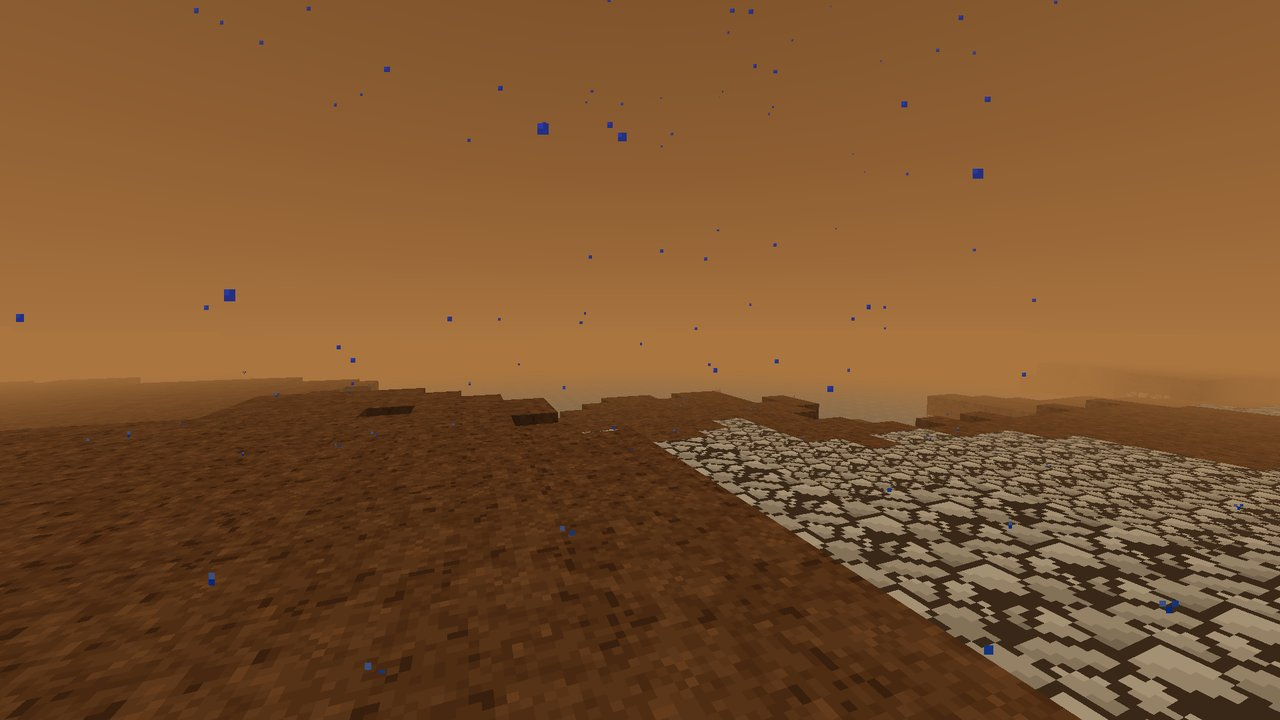
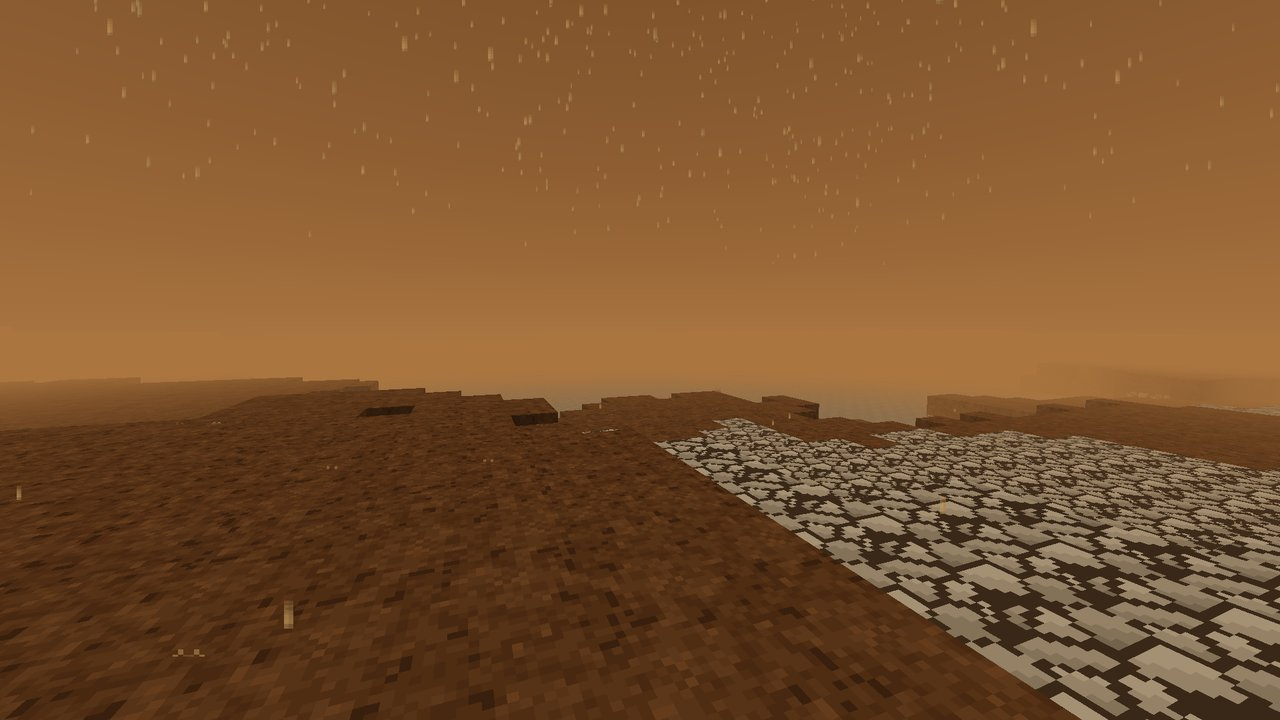
Compat: rocket camera, cockpit window, transit animation and Titan drops under shaders
All GUI-layer, drawn over Complementary's final frame like in vanilla. Titan's
new methane drop particle is visible under the pack (darker than vanilla:
Titan's dim light and haze apply to it). COMPAT.md and screenshots updated.

diff --git a/docs/COMPAT.md b/docs/COMPAT.md
@@ -26,7 +26,9 @@ Per world with Complementary (vanilla reference shots live in each area's screen
 | Phobos, Deimos | airless | classified and handled like the Moon; no separate shader screenshots yet |
 
 Screen effects and HUDs (all in the GUI layer, drawn over the pack's final frame) were checked under Complementary:
-orbit HUD (`iris_rocketry_12_orbit_hud`), suit HUD on the Moon (`iris_suit_moon_03_hud_vacuum`), launch
+rocket camera and cockpit window (`iris_rocketry_24_rocket_camera`, `iris_rocketry_25_cockpit`), the transit animation
+that replaces the loading screen during dimension changes (`iris_rocketry_26/27/28_transit_*`; the frames differ from
+vanilla only in the animation phase, the shader run is slower), orbit HUD (`iris_rocketry_12_orbit_hud`), suit HUD on the Moon (`iris_suit_moon_03_hud_vacuum`), launch
 (`iris_rocketry_07_ignition`), Mars dust tint. The reentry plasma overlay (`iris_13_reentry_plasma`, compat shot 13 with
 a short view distance so the frame is ready during the heating phase) is drawn over the pack's frame as well.
 
@@ -126,11 +128,10 @@ Complementary the tint is weaker (the pack re-lights translucent entities) but t
   Moon when it rains on Earth (industry area).
 
 - **Blue "water" particles are faded by Complementary:** its `gbuffers_textured` recognises blue particles
-  (`b > 1.15·(r+g)`, as in `FALLING_WATER` / `RAIN`), pales them (`sqrt`, ×0.7) and drops ~60 % of them by dither. Titan's
-  methane drizzle uses those vanilla particles, so under the pack it is almost invisible in the orange haze
-  (`vanilla_titan_03_methane_rain` vs `iris_titan_03_methane_rain`; the same with our passes off, so it is the pack).
-  Fix for the owning area: a custom drop particle whose colour is not blue-dominant (liquid methane is nearly
-  colourless — e.g. a pale grey/amber tint) is drawn normally by the pack.
+  (`b > 1.15·(r+g)`, as vanilla `FALLING_WATER` / `RAIN`), pales them and drops ~60 % of them by dither. Titan's drizzle
+  now uses its own methane drop particle and is visible under the pack (`iris_titan_03_methane_rain`); it reads darker
+  than in vanilla because Titan's dim light and haze apply to the drops too. Other areas: avoid blue-dominant vanilla
+  water particles for effects that must stay visible with shaders.
 
 ## 4. How to test
 
